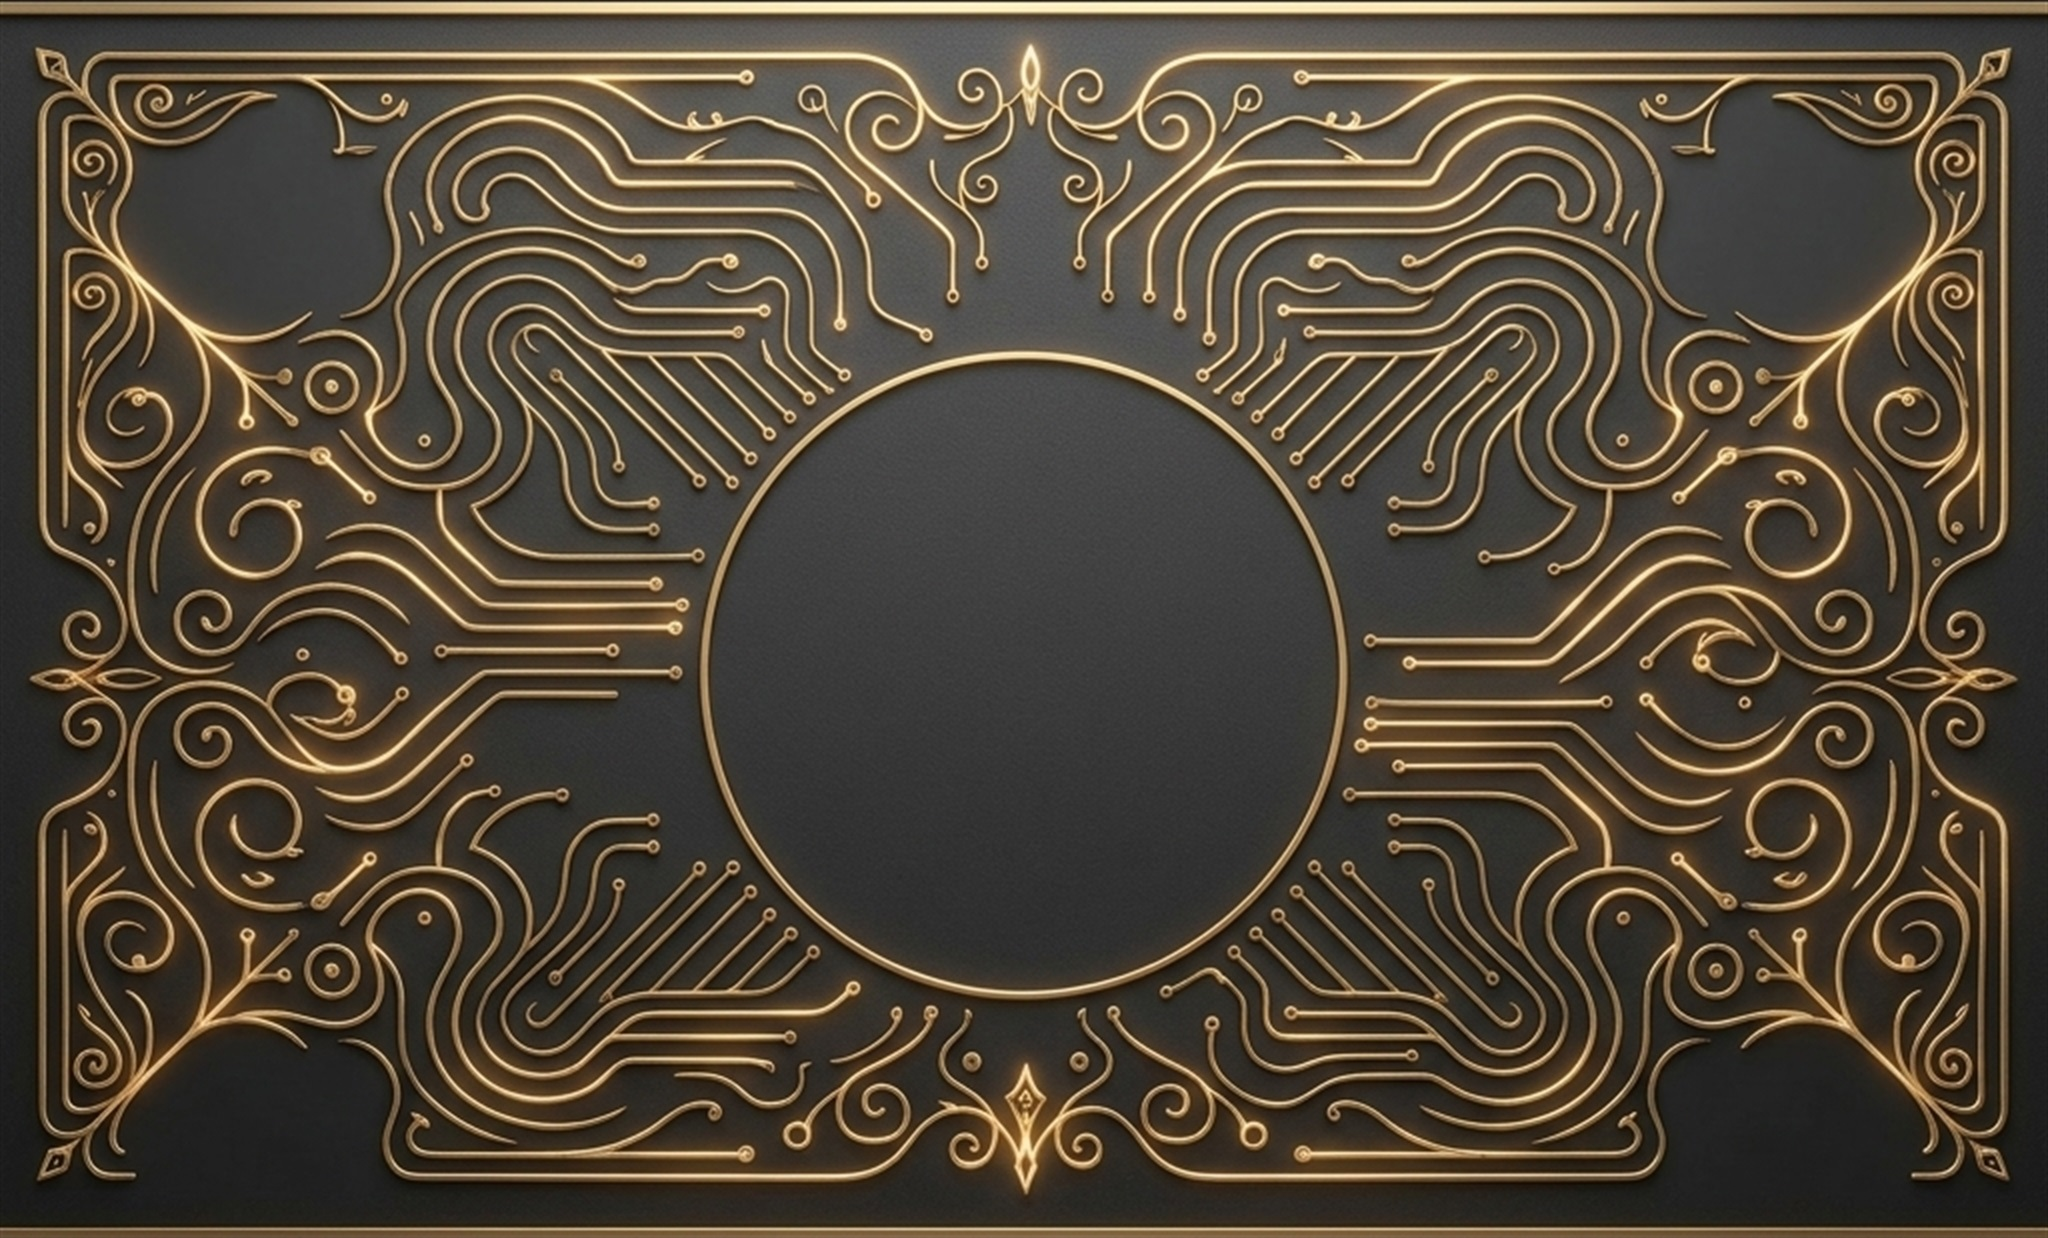
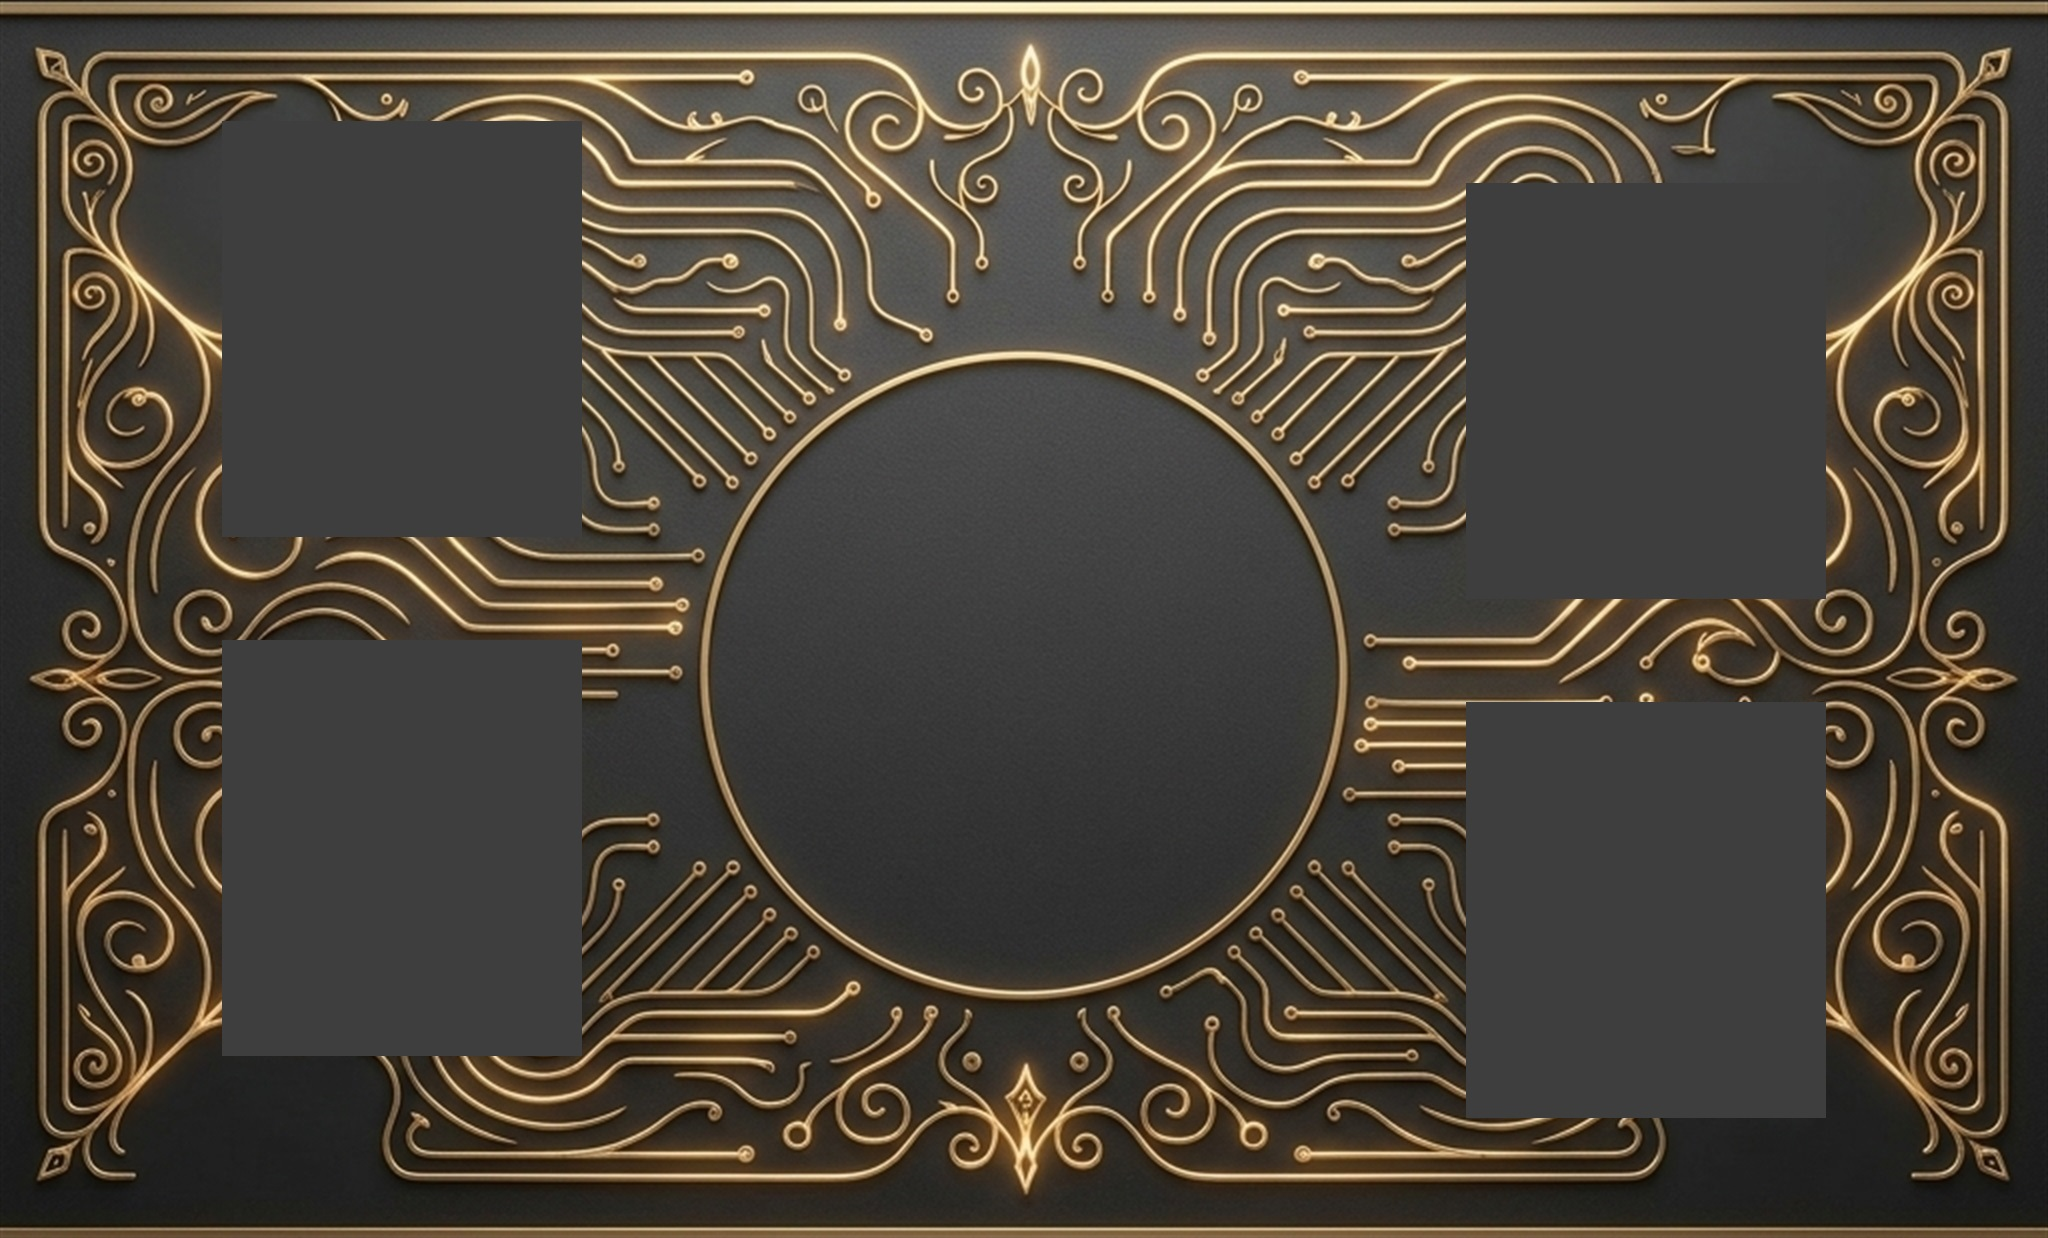
Optimize loader: clean slot lines, fix central portrait and rings alignment, and resolve flashcard glow clipping

diff --git a/index.html b/index.html
@@ -475,7 +475,7 @@
 
     .loader-emblem {
       position: relative;
-      width: 460px; height: 430px;
+      width: 31.4vw; height: 44.02vh;
       display: flex;
       align-items: center;
       justify-content: center;
@@ -496,7 +496,8 @@
     }
     .loader-portrait-wrapper {
       position: absolute;
-      width: 200px; height: 200px;
+      width: 38%;
+      aspect-ratio: 1;
       border-radius: 50%;
       overflow: hidden;
       z-index: 1;
@@ -515,7 +516,7 @@
       position: absolute;
       inset: 0;
       width: 100%; height: 100%;
-      object-fit: contain;
+      object-fit: fill;
       z-index: 2;
       filter: drop-shadow(0 0 45px rgba(200, 168, 106, 0.35));
       pointer-events: none;
@@ -599,31 +600,41 @@
     /* ===== Loader Flashcards ===== */
     .loader-flashcard {
       position: absolute;
-      width: 280px;
-      height: 320px;
-      background-image: url('card-base.png');
-      background-size: 100% 100%;
-      background-position: center;
-      background-repeat: no-repeat;
-      filter: drop-shadow(0 15px 35px rgba(0, 0, 0, 0.5));
+      width: 13.5vw;
+      height: 31vh;
+      container-type: inline-size;
       opacity: 0;
       pointer-events: none;
       z-index: 5;
       transform-style: preserve-3d;
       backface-visibility: hidden;
+      transition: filter 0.5s ease;
+    }
+    
+    .loader-flashcard.active {
+      filter: drop-shadow(0 0 20px rgba(200, 168, 106, 0.35)) drop-shadow(0 15px 30px rgba(0, 0, 0, 0.6));
+    }
+
+    .fc-inner {
+      width: 100%;
+      height: 100%;
       border-radius: 24px;
       overflow: hidden;
-
-      /* Inner content alignment */
       display: flex;
       flex-direction: column;
       align-items: center;
       justify-content: center;
-      padding: 24px 22px 24px 22px;
+      padding: 8% 6% 8% 6%;
       box-sizing: border-box;
       text-align: center;
+      background-image: url('card-base.png');
+      background-size: 100% 100%;
+      background-position: center;
+      background-repeat: no-repeat;
+      position: relative;
     }
-    .loader-flashcard::before {
+
+    .fc-inner::before {
       content: "";
       position: absolute;
       top: 0; left: -150%;
@@ -641,7 +652,7 @@
       pointer-events: none;
       z-index: 6;
     }
-    .loader-flashcard.active::before {
+    .loader-flashcard.active .fc-inner::before {
       animation: card-shine 4.5s ease-in-out infinite;
       animation-delay: 1.2s;
     }
@@ -653,9 +664,9 @@
 
     /* Icon wrappers & animations inside flashcards */
     .fc-icon-wrapper {
-      width: 120px;
-      height: 120px;
-      margin-bottom: 16px;
+      width: 42%;
+      aspect-ratio: 1;
+      margin-bottom: 5%;
       display: flex;
       align-items: center;
       justify-content: center;
@@ -706,33 +717,33 @@
 
     .loader-flashcard .fc-label {
       color: #9f8c6b;
-      font-size: 0.85rem;
+      font-size: 6cqi;
       font-weight: 700;
       letter-spacing: 0.14em;
       text-transform: uppercase;
-      margin-bottom: 4px;
+      margin-bottom: 2%;
       display: block;
       opacity: 0.85;
     }
     .loader-flashcard .fc-value {
       color: #f1dcab;
       font-family: var(--display);
-      font-size: 1.24rem;
+      font-size: 8.5cqi;
       font-weight: 700;
       line-height: 1.25;
       display: block;
       text-shadow: 0 0 10px rgba(241, 220, 171, 0.4);
     }
     .fc-1 .fc-value {
-      font-size: 1.12rem;
-      margin-left: 6px;
+      font-size: 8cqi;
+      margin-left: 2%;
     }
 
     /* Positions for flashcards centered around central column */
-    .fc-1 { left: calc(23.5% - 140px); top: calc(22.8% - 160px); }
-    .fc-2 { right: calc(23.5% - 140px); top: calc(27.8% - 160px); }
-    .fc-3 { left: calc(23.5% - 140px); top: calc(64.8% - 160px); }
-    .fc-4 { right: calc(23.5% - 140px); top: calc(69.8% - 160px); }
+    .fc-1 { left: calc(23.5% - 6.75vw); top: calc(22.8% - 15.5vh); }
+    .fc-2 { right: calc(23.5% - 6.75vw); top: calc(27.8% - 15.5vh); }
+    .fc-3 { left: calc(23.5% - 6.75vw); top: calc(64.8% - 15.5vh); }
+    .fc-4 { right: calc(23.5% - 6.75vw); top: calc(69.8% - 15.5vh); }
 
     /* Active states when progress reaches thresholds - sequential 3D spin entrance + float */
     .fc-1.active {
@@ -1949,32 +1960,40 @@
     </div>
     <!-- Flashcards around the loader -->
     <div class="loader-flashcard fc-1">
-      <div class="fc-icon-wrapper">
-        <img class="fc-icon fc-icon-spec" src="loader-icon-spec.png" alt="Specialization Icon" />
+      <div class="fc-inner">
+        <div class="fc-icon-wrapper">
+          <img class="fc-icon fc-icon-spec" src="loader-icon-spec.png" alt="Specialization Icon" />
+        </div>
+        <span class="fc-label" data-i18n="fc_label_spec">Specialization</span>
+        <span class="fc-value" data-i18n="fc_value_spec">Full-Stack Developer</span>
       </div>
-      <span class="fc-label" data-i18n="fc_label_spec">Specialization</span>
-      <span class="fc-value" data-i18n="fc_value_spec">Full-Stack Developer</span>
     </div>
     <div class="loader-flashcard fc-2">
-      <div class="fc-icon-wrapper">
-        <img class="fc-icon fc-icon-sys" src="loader-icon-sys.png" alt="Systems Icon" />
+      <div class="fc-inner">
+        <div class="fc-icon-wrapper">
+          <img class="fc-icon fc-icon-sys" src="loader-icon-sys.png" alt="Systems Icon" />
+        </div>
+        <span class="fc-label" data-i18n="fc_label_sys">Systems</span>
+        <span class="fc-value" data-i18n="fc_value_sys">Noblesse PMS</span>
       </div>
-      <span class="fc-label" data-i18n="fc_label_sys">Systems</span>
-      <span class="fc-value" data-i18n="fc_value_sys">Noblesse PMS</span>
     </div>
     <div class="loader-flashcard fc-3">
-      <div class="fc-icon-wrapper">
-        <img class="fc-icon fc-icon-auto" src="loader-icon-auto.png" alt="Automation Icon" />
+      <div class="fc-inner">
+        <div class="fc-icon-wrapper">
+          <img class="fc-icon fc-icon-auto" src="loader-icon-auto.png" alt="Automation Icon" />
+        </div>
+        <span class="fc-label" data-i18n="fc_label_auto">Automation</span>
+        <span class="fc-value" data-i18n="fc_value_auto">Python and C#</span>
       </div>
-      <span class="fc-label" data-i18n="fc_label_auto">Automation</span>
-      <span class="fc-value" data-i18n="fc_value_auto">Python and C#</span>
     </div>
     <div class="loader-flashcard fc-4">
-      <div class="fc-icon-wrapper">
-        <img class="fc-icon fc-icon-mind" src="loader-icon-mind.png" alt="Mindset Icon" />
+      <div class="fc-inner">
+        <div class="fc-icon-wrapper">
+          <img class="fc-icon fc-icon-mind" src="loader-icon-mind.png" alt="Mindset Icon" />
+        </div>
+        <span class="fc-label" data-i18n="fc_label_mind">Mindset</span>
+        <span class="fc-value" data-i18n="fc_value_mind">Troubleshooting</span>
       </div>
-      <span class="fc-label" data-i18n="fc_label_mind">Mindset</span>
-      <span class="fc-value" data-i18n="fc_value_mind">Troubleshooting</span>
     </div>
   </div>
 
